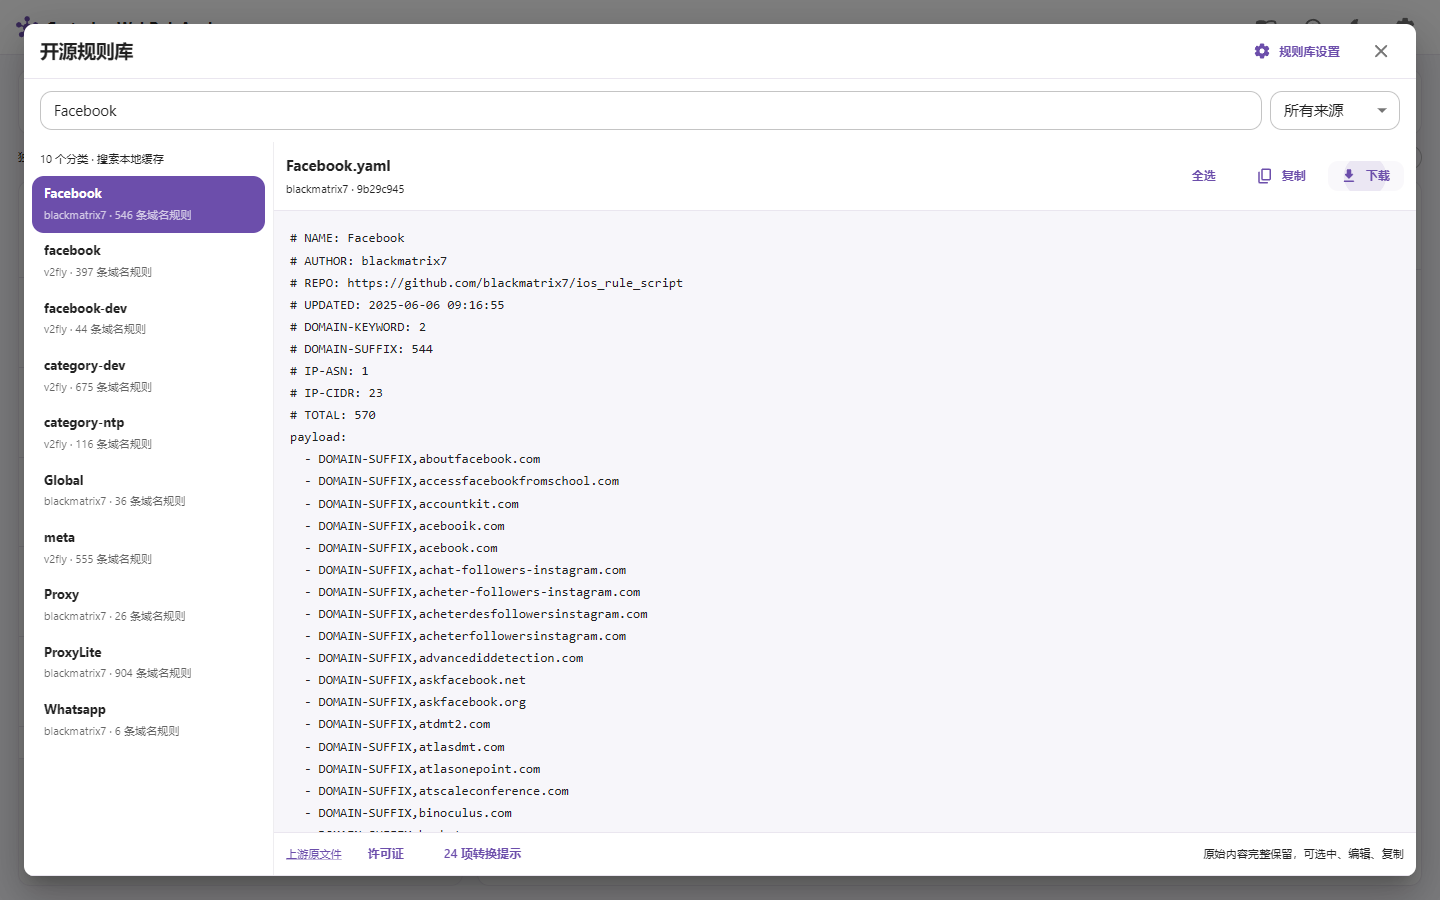
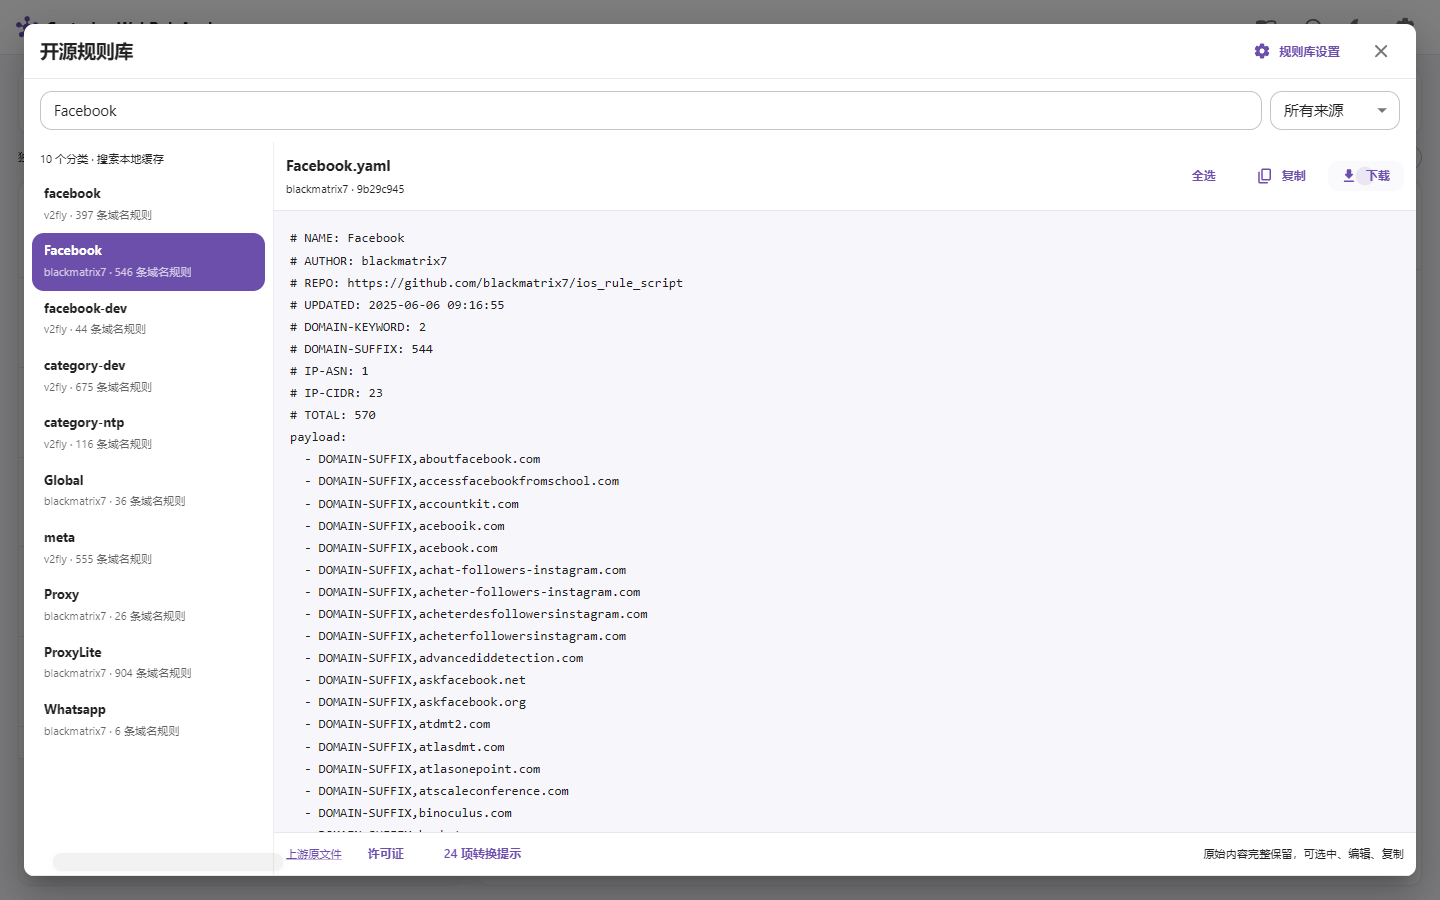
docs: record final v1.2 cross-platform acceptance

Changed region(s): [[0.0, 0.1867, 0.1875, 0.3422]]

diff --git a/README.md b/README.md
@@ -96,7 +96,7 @@ python scripts/audit-release.py --zip ./dist/Castorice-WebRuleAnalyzer-v1.2-wind
 - 这是受控标签页的 CDP 网络事件采集，不是系统 PCAP；失败请求也会记录。新标签页、独立 Worker、登录后功能和未操作流程的覆盖有限。扫描通过不证明整个应用完整覆盖。
 - 不保存请求头、Cookie、认证信息或正文；URL 查询值脱敏。任意业务路径仍可能敏感，请妥善保管自己的历史与导出文件。
 - 默认禁用 QUIC，保护代理支持 HTTP(S)/WebSocket；没有声称采集原生 HTTP/3。
-- 系统 DNS 含已知 Fake-IP 且其余均为公网地址时，自动模式使用固定 Cloudflare HTTPS DNS 重新验证公网地址；混合/私网答案继续拒绝。不修改系统网络配置。
+- 系统 DNS 含已知 Fake-IP 且其余均为公网地址时，自动模式使用固定 Cloudflare HTTPS DNS 重新验证公网地址；真实私网及其与公网混合的答案继续拒绝。不修改系统网络配置。
 - Windows 包没有代码签名。未在全新无 WebView2 的 Windows 10/11 安装上实测；第三方登录、支付等流程未执行。
 - 历史保存当时的匹配，重新匹配使用当前缓存。缓存清理后需重新下载；外部仓库、网络及规则本身不由本项目保证。
 

diff --git a/CHANGELOG.md b/CHANGELOG.md
@@ -6,6 +6,7 @@
 - 匹配按目标主机、第三方依赖和关键词区分，显示实际规则依据；移除界面分数；修正共享 Google 请求导致的误导性应用候选。大型单应用分类不再因条目数被标为通用分类。
 - Linux 默认本地网页入口，增加完整 Docker 构建与持久卷配置；无图形会话禁用可见辅助采集。
 - 修复 Linux 取消后子进程异步写入重建 Profile 的时序问题，隔离进程组与 XDG 缓存，并增加晚写入回归。
+- 安全处理已知 Fake-IP 与公网 IPv6 混合的系统答案，仍拒绝真实私网；补齐容器沙箱组件与受限宿主配置，通知条不再遮挡点击。
 - Windows 便携 ZIP 作为标准发布附件，补充三端回归、界面验收、隐私扫描和后续发布流程模板。
 # 更新记录
 
